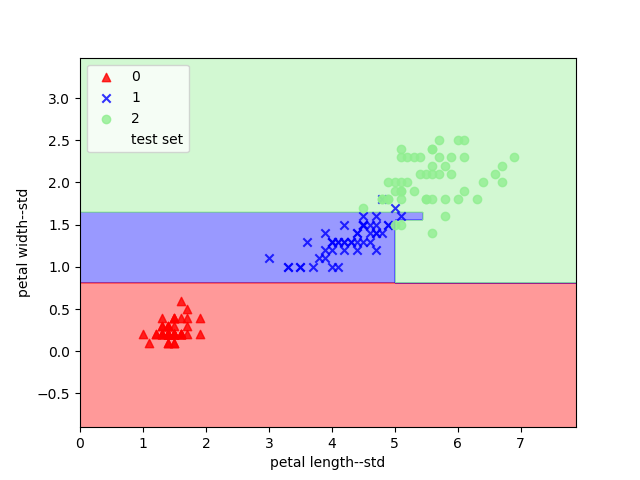
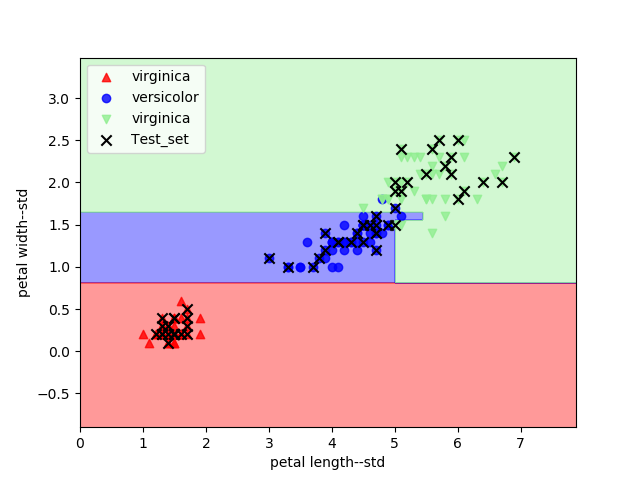
对iris数据集可视化做了一些美化处理

diff --git a/knndemo/util/plot_decision.py b/knndemo/util/plot_decision.py
@@ -9,15 +9,15 @@ import matplotlib.pyplot as plt
 '''
 
 
-def plot_decision_regions(X, y, classifier, test_idx=None, resolution=0.02):
+def plot_decision_regions(x, y, test, classifier, resolution=0.02):
     # 设置标记点和颜色
-    markers = ('^', 'x', 'o', 'v', 's')
+    markers = ('^', 'o', 'v', 'x', 's')
     colors = ('red', 'blue', 'lightgreen', 'gray', 'cyan')
     cmap = ListedColormap(colors[:len(np.unique(y))])
 
     # 绘制决策面
-    x1_min, x1_max = X[:, 0].min() - 1, X[:, 0].max() + 1
-    x2_min, x2_max = X[:, 1].min() - 1, X[:, 1].max() + 1
+    x1_min, x1_max = x[:, 0].min() - 1, x[:, 0].max() + 1
+    x2_min, x2_max = x[:, 1].min() - 1, x[:, 1].max() + 1
     xx1, xx2 = np.meshgrid(np.arange(x1_min, x1_max, resolution), np.arange(x2_min, x2_max, resolution))
     Z = classifier.predict(np.array([xx1.ravel(), xx2.ravel()]).T)
     Z = Z.reshape(xx1.shape)
@@ -26,8 +26,10 @@ def plot_decision_regions(X, y, classifier, test_idx=None, resolution=0.02):
     plt.ylim(xx2.min(), xx2.max())
     # 绘制所有样本
     for idx, cl in enumerate(np.unique(y)):
-        plt.scatter(x=X[y == cl, 0], y=X[y == cl, 1], alpha=0.8, c=cmap(idx), marker=markers[idx], label=cl)
+        c_label = ('setosa' if cl == 0 else 'versicolor')
+        plt.scatter(x=x[y == cl, 0], y=x[y == cl, 1], alpha=0.8, c=cmap(idx), marker=markers[idx],
+                    label=(c_label if cl == 1 else 'virginica'))
     # 高亮预测样本
-    if test_idx:
-        X_test, y_test = X[test_idx, :], y[test_idx]
-        plt.scatter(X_test[:, 0], X_test[:, 1], c='', alpha=1.0, linewidths=1, marker='o', s=55, label='test set')
+    if test:
+        x_test = test[0]
+        plt.scatter(x_test[:, 0], x_test[:, 1], c='black', alpha=1.0, linewidths=0.5, marker='x', s=55, label='Test_set')

diff --git a/knndemo/demo.py b/knndemo/demo.py
@@ -1,5 +1,5 @@
 # -*- coding: utf-8 -*-
-
+'''
 from sklearn import datasets
 import numpy as np
 from sklearn.model_selection import train_test_split
@@ -14,7 +14,7 @@ from sklearn.neighbors import KNeighborsClassifier
 # 决策边界函数
 def plot_decision_regions(X, y, classifier, test_idx=None, resolution=0.02):
     # 设置标记点和颜色
-    markers = ('s', 'x', 'o', '^', 'v')
+    markers = ('s', 'x', 'v', '^', 'o')
     colors = ('red', 'blue', 'lightgreen', 'gray', 'cyan')
     cmap = ListedColormap(colors[:len(np.unique(y))])
 
@@ -41,6 +41,7 @@ def plot_decision_regions(X, y, classifier, test_idx=None, resolution=0.02):
 iris = datasets.load_iris()
 X = iris.data[:, [2, 3]]
 y = iris.target
+print(iris.target_names)
 print(np.unique(y))
 # 训练集和测试集划分
 X_train, X_test, y_train, y_test = train_test_split(X, y, test_size=0.3, random_state=0)
@@ -64,3 +65,4 @@ plt.xlabel('petal length[standardized]')
 plt.ylabel('petal width[standardized]')
 plt.legend(loc='upper left')
 plt.show()
+'''

diff --git a/knndemo/dttest.py b/knndemo/dttest.py
@@ -71,9 +71,11 @@ if __name__ == '__main__':
     print("The accuracy:", clf.score(x_test, y_test))
 
     # 实现结果可视化
-    X_combined_std = np.vstack((x_train, x_test))
-    y_combined = np.hstack((y_train, y_test))
-    plot_decision_regions(X=X_combined_std, y=y_combined, classifier=clf, test_idx=range(105, 150))
+    x_combined = np.vstack((x_train, x_test))   # 按垂直方向（行顺序）堆叠数组构成一个新的数组
+    y_combined = np.hstack((y_train, y_test))   # 按水平方向（列顺序）堆叠数组构成一个新的数组
+    plot_decision_regions(x=x_combined, y=y_combined, test=[x_test, y_test], classifier=clf)
+    # 只传出train的数据
+    # plot_decision_regions(x=x_train, y=y_train, test=[x_test, y_test], classifier=clf)
     plt.xlabel('petal length--std')
     plt.ylabel('petal width--std')
     plt.legend(loc='upper left')

diff --git a/knndemo/knntest.py b/knndemo/knntest.py
@@ -40,9 +40,9 @@ for k in k_range:
     # for i in range(len(y_predict)):
     #     print("第{}次，预测值：{}\t真实值：{}".format(i+1, y_predict[i], Y_test[i]))
     # 绘制决策边界
-    X_combined_std = np.vstack((X_train, X_test))
+    x_combined = np.vstack((X_train, X_test))
     y_combined = np.hstack((Y_train, Y_test))
-    plot_decision_regions(X=X_combined_std, y=y_combined, classifier=knn, test_idx=range(105, 150))
+    plot_decision_regions(x=x_combined, y=y_combined, test=[X_test, Y_test], classifier=knn)
     plt.xlabel('petal length--std')
     plt.ylabel('petal width--std')
     plt.legend(loc='upper left')
